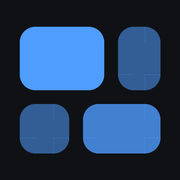
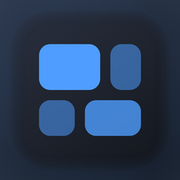
Icône d'écran d'accueil : icône de l'application en plein carré
Claude-Session: https://claude.ai/code/session_01TF8ZxrFEH9WSR2biGmUehx

diff --git a/faq.html b/faq.html
@@ -23,7 +23,7 @@
 <meta name="twitter:card" content="summary_large_image">
 <link rel="icon" href="assets/favicon.svg?v=48beb7f9" type="image/svg+xml">
 <link rel="icon" href="assets/favicon-32.png?v=5173868e" sizes="32x32" type="image/png">
-<link rel="apple-touch-icon" sizes="180x180" href="assets/apple-touch-icon.png?v=2257fb08">
+<link rel="apple-touch-icon" sizes="180x180" href="assets/apple-touch-icon.png?v=8d6229af">
 <meta name="apple-mobile-web-app-title" content="PolyTabs">
 <link rel="manifest" href="manifest.webmanifest">
 <link rel="preload" href="fonts/bricolage-grotesque-opsz.woff2" as="font" type="font/woff2" crossorigin>

diff --git a/guide.html b/guide.html
@@ -23,7 +23,7 @@
 <meta name="twitter:card" content="summary_large_image">
 <link rel="icon" href="assets/favicon.svg?v=48beb7f9" type="image/svg+xml">
 <link rel="icon" href="assets/favicon-32.png?v=5173868e" sizes="32x32" type="image/png">
-<link rel="apple-touch-icon" sizes="180x180" href="assets/apple-touch-icon.png?v=2257fb08">
+<link rel="apple-touch-icon" sizes="180x180" href="assets/apple-touch-icon.png?v=8d6229af">
 <meta name="apple-mobile-web-app-title" content="PolyTabs">
 <link rel="manifest" href="manifest.webmanifest">
 <link rel="preload" href="fonts/bricolage-grotesque-opsz.woff2" as="font" type="font/woff2" crossorigin>

diff --git a/index.html b/index.html
@@ -23,7 +23,7 @@
 <meta name="twitter:card" content="summary_large_image">
 <link rel="icon" href="assets/favicon.svg?v=48beb7f9" type="image/svg+xml">
 <link rel="icon" href="assets/favicon-32.png?v=5173868e" sizes="32x32" type="image/png">
-<link rel="apple-touch-icon" sizes="180x180" href="assets/apple-touch-icon.png?v=2257fb08">
+<link rel="apple-touch-icon" sizes="180x180" href="assets/apple-touch-icon.png?v=8d6229af">
 <meta name="apple-mobile-web-app-title" content="PolyTabs">
 <link rel="manifest" href="manifest.webmanifest">
 <link rel="preload" href="fonts/bricolage-grotesque-opsz.woff2" as="font" type="font/woff2" crossorigin>

diff --git a/outils.html b/outils.html
@@ -23,7 +23,7 @@
 <meta name="twitter:card" content="summary_large_image">
 <link rel="icon" href="assets/favicon.svg?v=48beb7f9" type="image/svg+xml">
 <link rel="icon" href="assets/favicon-32.png?v=5173868e" sizes="32x32" type="image/png">
-<link rel="apple-touch-icon" sizes="180x180" href="assets/apple-touch-icon.png?v=2257fb08">
+<link rel="apple-touch-icon" sizes="180x180" href="assets/apple-touch-icon.png?v=8d6229af">
 <meta name="apple-mobile-web-app-title" content="PolyTabs">
 <link rel="manifest" href="manifest.webmanifest">
 <link rel="preload" href="fonts/bricolage-grotesque-opsz.woff2" as="font" type="font/woff2" crossorigin>

diff --git a/telecharger.html b/telecharger.html
@@ -22,7 +22,7 @@
 <meta name="twitter:card" content="summary_large_image">
 <link rel="icon" href="assets/favicon.svg?v=48beb7f9" type="image/svg+xml">
 <link rel="icon" href="assets/favicon-32.png?v=5173868e" sizes="32x32" type="image/png">
-<link rel="apple-touch-icon" sizes="180x180" href="assets/apple-touch-icon.png?v=2257fb08">
+<link rel="apple-touch-icon" sizes="180x180" href="assets/apple-touch-icon.png?v=8d6229af">
 <meta name="apple-mobile-web-app-title" content="PolyTabs">
 <link rel="manifest" href="manifest.webmanifest">
 <link rel="preload" href="fonts/bricolage-grotesque-opsz.woff2" as="font" type="font/woff2" crossorigin>

diff --git a/versions-archives.html b/versions-archives.html
@@ -20,7 +20,7 @@
 <meta name="twitter:card" content="summary_large_image">
 <link rel="icon" href="assets/favicon.svg?v=48beb7f9" type="image/svg+xml">
 <link rel="icon" href="assets/favicon-32.png?v=5173868e" sizes="32x32" type="image/png">
-<link rel="apple-touch-icon" sizes="180x180" href="assets/apple-touch-icon.png?v=2257fb08">
+<link rel="apple-touch-icon" sizes="180x180" href="assets/apple-touch-icon.png?v=8d6229af">
 <meta name="apple-mobile-web-app-title" content="PolyTabs">
 <link rel="manifest" href="manifest.webmanifest">
 <link rel="preload" href="fonts/bricolage-grotesque-opsz.woff2" as="font" type="font/woff2" crossorigin>

diff --git a/versions.html b/versions.html
@@ -21,7 +21,7 @@
 <meta name="twitter:card" content="summary_large_image">
 <link rel="icon" href="assets/favicon.svg?v=48beb7f9" type="image/svg+xml">
 <link rel="icon" href="assets/favicon-32.png?v=5173868e" sizes="32x32" type="image/png">
-<link rel="apple-touch-icon" sizes="180x180" href="assets/apple-touch-icon.png?v=2257fb08">
+<link rel="apple-touch-icon" sizes="180x180" href="assets/apple-touch-icon.png?v=8d6229af">
 <meta name="apple-mobile-web-app-title" content="PolyTabs">
 <link rel="manifest" href="manifest.webmanifest">
 <link rel="preload" href="fonts/bricolage-grotesque-opsz.woff2" as="font" type="font/woff2" crossorigin>

diff --git a/404.html b/404.html
@@ -5,7 +5,7 @@
 <meta name="viewport" content="width=device-width, initial-scale=1">
 <meta name="robots" content="noindex">
 <link rel="icon" href="https://polytabs.fr/assets/favicon-32.png?v=5173868e" sizes="32x32" type="image/png">
-<link rel="apple-touch-icon" sizes="180x180" href="https://polytabs.fr/assets/apple-touch-icon.png?v=2257fb08">
+<link rel="apple-touch-icon" sizes="180x180" href="https://polytabs.fr/assets/apple-touch-icon.png?v=8d6229af">
 <meta name="apple-mobile-web-app-title" content="PolyTabs">
 <title>Page introuvable — PolyTabs</title>
 <style>
